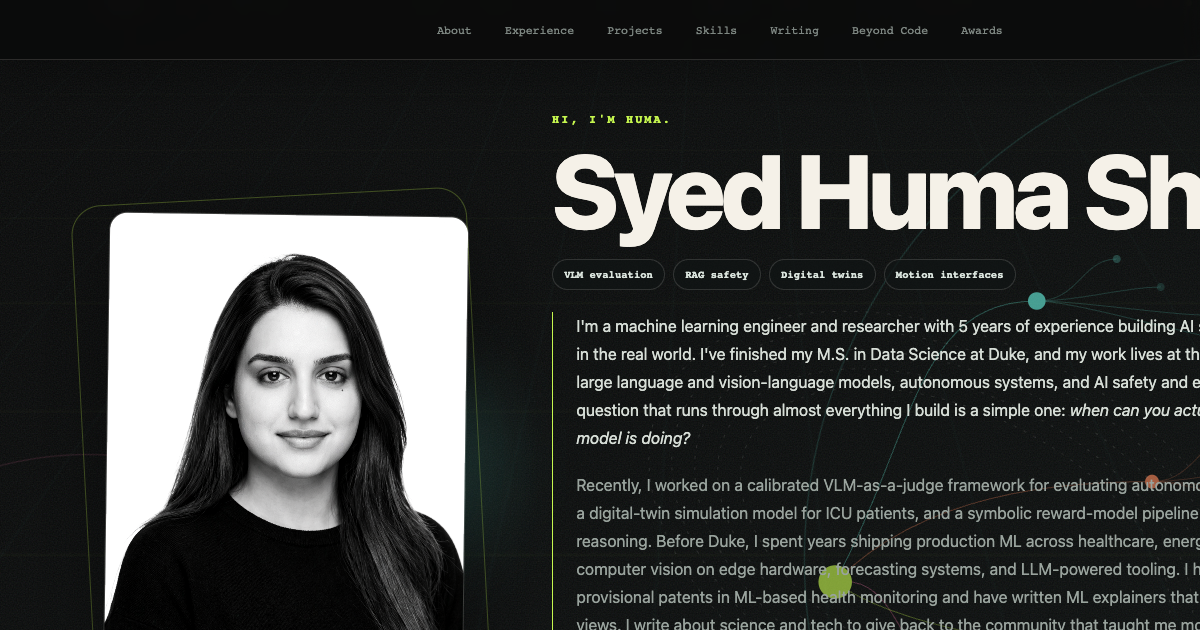
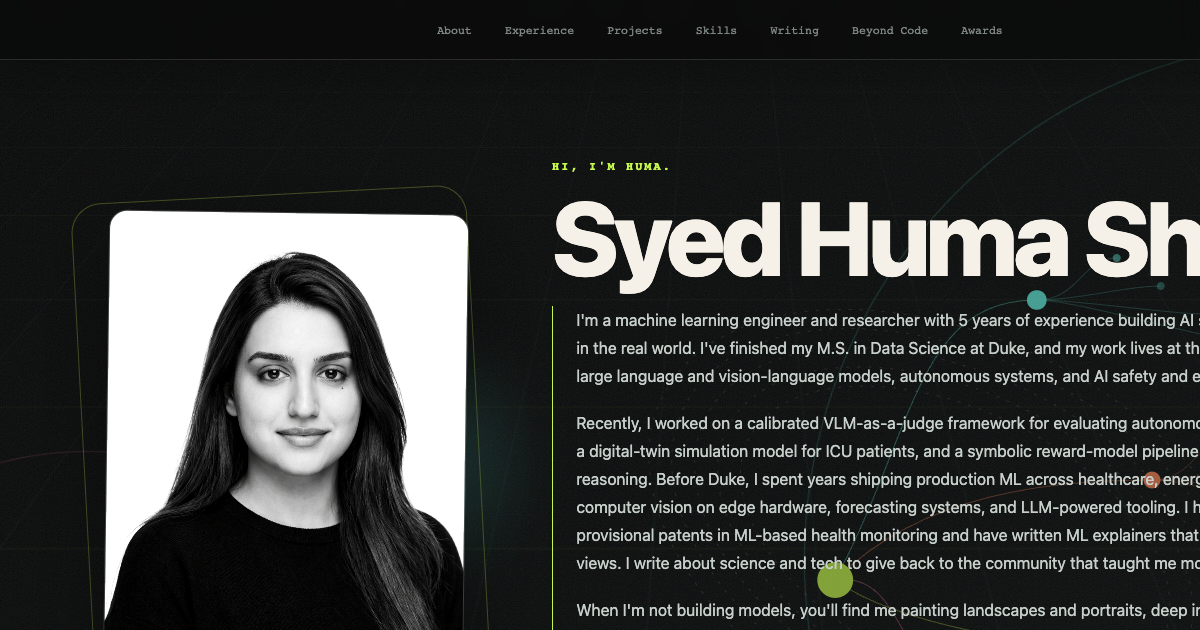
Refine hero links and hobby section

diff --git a/index.html b/index.html
@@ -130,8 +130,7 @@ nav a:hover{color:#111;background:var(--text);border-color:var(--text)}
 .role-line{display:flex;gap:.5rem;flex-wrap:wrap;margin:0 0 1.4rem}
 .role-line span{border:1px solid var(--line);border-radius:999px;background:rgba(16,20,20,.7);padding:.5rem .7rem;color:#dbe5de;font:700 .66rem var(--mono)}
 .bio-panel{border-left:1px solid var(--primary);padding-left:1.45rem}
-.hero-text .bio{color:#d7ded7;font-size:1rem;max-width:760px}
-.hero-text .bio.muted{color:#99a39d}
+.hero-text .bio,.hero-text .bio.muted{color:#c6cfca;font-size:1rem;font-weight:400;max-width:760px}
 .metric-row{display:grid;grid-template-columns:repeat(3,1fr);gap:1px;margin:1.4rem 0;background:var(--line);border:1px solid var(--line)}
 .metric-row span{background:rgba(16,20,20,.86);padding:1rem;font:700 .65rem var(--mono);color:var(--muted)}
 .metric-row b{display:block;color:var(--primary);font-size:1.35rem;margin-bottom:.2rem}
@@ -139,9 +138,24 @@ nav a:hover{color:#111;background:var(--text);border-color:var(--text)}
 .photo-orbit:before{content:"";position:absolute;inset:-18px;border:1px solid rgba(199,248,79,.28);border-radius:30px;transform:rotate(-3deg)}
 .photo-orbit:after{content:"";position:absolute;inset:12% -16% auto auto;width:56%;height:56%;border-radius:50%;background:radial-gradient(circle,rgba(103,242,223,.22),transparent 64%);filter:blur(24px);z-index:-1}
 .hero-photo{width:min(360px,76vw);height:auto;max-height:620px;border-radius:18px;border:1px solid rgba(245,241,232,.18);box-shadow:0 30px 90px rgba(0,0,0,.38);filter:saturate(.94) contrast(1.04);transform:rotate(.8deg)}
-.social-links{gap:.65rem}
-.social-links a,.project-card .links a{border-color:rgba(199,248,79,.35);color:var(--text);background:rgba(16,20,20,.68);font-family:var(--mono);font-size:.76rem}
+.social-links{gap:.8rem;margin-top:1.15rem}
+.social-links a,.project-card .links a{border-color:rgba(199,248,79,.35);color:var(--text);background:rgba(16,20,20,.68);font-family:var(--mono);font-size:.9rem;padding:.8rem 1.25rem}
 .social-links a:hover,.project-card .links a:hover{background:var(--primary);color:#111;border-color:var(--primary);box-shadow:0 12px 34px rgba(199,248,79,.2)}
+.company-bridge{max-width:1240px;margin:0 auto;padding:2.2rem 1.5rem 3.8rem;position:relative}
+.company-bridge.compact{padding-top:1rem;padding-bottom:4rem}
+.company-bridge:before{content:"";display:block;height:1px;margin-bottom:1.2rem;background:linear-gradient(90deg,transparent,rgba(199,248,79,.55),rgba(103,242,223,.36),transparent)}
+.company-bridge p{margin:0 0 1.2rem;color:var(--primary);font:800 .72rem var(--mono);letter-spacing:.16em;text-transform:uppercase}
+.company-track{display:grid;grid-template-columns:repeat(5,1fr);gap:1px;background:var(--line);border:1px solid var(--line);overflow:hidden}
+.company-card{min-height:128px;display:flex;flex-direction:column;align-items:center;justify-content:center;gap:.8rem;background:linear-gradient(145deg,rgba(18,23,23,.92),rgba(9,11,11,.92));color:var(--text);text-align:center;transition:transform .35s ease,background .35s ease}
+.company-card:hover{transform:translateY(-5px);background:#151c1b}
+.company-mark{width:62px;height:62px;display:grid;place-items:center;border-radius:16px;background:#f5f1e8;color:#07100e;font:900 1.05rem var(--mono);box-shadow:0 14px 34px rgba(0,0,0,.22)}
+.company-mark.duke{background:#012169;color:#fff}
+.company-mark.clearquote{background:#e8fbff;color:#102133}
+.company-mark.ion{background:#d8ff71;color:#102000}
+.company-mark.trip{background:#ff946a;color:#180b04}
+.company-mark.geo{background:#101715;color:#c7f84f;border:1px solid rgba(199,248,79,.4)}
+.company-card b{font-size:.92rem}
+.company-card small{color:var(--muted);font:.64rem var(--mono);text-transform:uppercase}
 section{max-width:1240px}
 .section-title{text-align:left;font-size:clamp(2.5rem,5vw,5.8rem);line-height:.88;letter-spacing:-.04em;background:none;-webkit-text-fill-color:var(--text);margin-bottom:3rem}
 .section-title:before{content:"";display:block;width:64px;height:2px;background:linear-gradient(90deg,var(--primary),transparent);margin-bottom:1rem}
@@ -161,15 +175,22 @@ section{max-width:1240px}
 .project-card .tech span,.skill-tag{background:rgba(103,242,223,.08);border:1px solid rgba(103,242,223,.18);color:#aef7ef;font-family:var(--mono)}
 .skills-grid{justify-content:flex-start}
 .skill-tag:hover{background:var(--secondary);color:#08100f}
-.hobbies-grid{grid-template-columns:repeat(auto-fit,minmax(245px,1fr));gap:1px;background:var(--line);border:1px solid var(--line)}
-.hobby-card .emoji{filter:saturate(.85)}
+.hobby-lab{position:relative;overflow:hidden}
+.hobby-lab:before{content:"";position:absolute;right:4%;top:9rem;width:280px;height:280px;border:1px dashed rgba(103,242,223,.24);border-radius:50%;animation:orbit 24s linear infinite}
+.hobby-lab:after{content:"";position:absolute;right:10%;top:14rem;width:90px;height:90px;border-radius:50%;background:radial-gradient(circle,rgba(199,248,79,.2),transparent 66%);filter:blur(10px);animation:pulseHobby 5s ease-in-out infinite alternate}
+.hobbies-grid{position:relative;z-index:1;grid-template-columns:repeat(3,minmax(0,1fr));gap:14px;background:transparent;border:0}
+.hobby-card{border:1px solid var(--line);border-radius:18px;min-height:270px;display:flex;flex-direction:column;align-items:center;justify-content:center;position:relative;overflow:hidden}
+.hobby-card:before{content:"";position:absolute;inset:auto -30% -45% 35%;height:150px;background:radial-gradient(circle,rgba(103,242,223,.16),transparent 68%);transition:transform .35s ease,opacity .35s ease;opacity:.45}
+.hobby-card:hover:before{transform:translateY(-22px);opacity:1}
+.hobby-card .emoji{filter:saturate(.85);font-size:2.85rem}
+@keyframes pulseHobby{from{transform:scale(.9);opacity:.55}to{transform:scale(1.15);opacity:1}}
 .awards-list{background:var(--line);border:1px solid var(--line);gap:1px}
 .awards-list li{border-left:0}
 .awards-list li strong{color:var(--primary)}
 footer{border-top:1px solid var(--line);background:rgba(8,9,9,.7)}
 .fade-in{transform:translateY(18px);transition:opacity .7s ease,transform .7s ease}
-@media(max-width:900px){.hero-inner{grid-template-columns:1fr;text-align:left}.photo-orbit{order:2}.hero h1{font-size:clamp(3.1rem,12vw,5.4rem)}.bio-panel{padding-left:1rem}.metric-row{grid-template-columns:1fr}.section-title{text-align:left}}
-@media(max-width:640px){nav ul{justify-content:flex-start}.hero{padding:6.4rem 1.15rem 3rem}.hero h1{font-size:clamp(2.8rem,11vw,3.5rem)}.projects-grid{grid-template-columns:1fr}.hero-text .bio{font-size:.94rem}.role-line span{font-size:.58rem}.social-links a{flex:1;justify-content:center}.hero:before{width:130vw;height:130vw;right:-80vw}.hero:after{width:92vw;height:92vw}.section-title{font-size:3rem}}
+@media(max-width:900px){.hero-inner{grid-template-columns:1fr;text-align:left}.photo-orbit{order:2}.hero h1{font-size:clamp(3.1rem,12vw,5.4rem)}.bio-panel{padding-left:1rem}.metric-row{grid-template-columns:1fr}.section-title{text-align:left}.company-track{grid-template-columns:repeat(2,1fr)}.hobbies-grid{grid-template-columns:repeat(2,minmax(0,1fr))}}
+@media(max-width:640px){nav ul{justify-content:flex-start}.hero{padding:6.4rem 1.15rem 3rem}.hero h1{font-size:clamp(2.8rem,11vw,3.5rem)}.projects-grid{grid-template-columns:1fr}.hero-text .bio{font-size:.94rem}.social-links a{flex:1;justify-content:center}.hero:before{width:130vw;height:130vw;right:-80vw}.hero:after{width:92vw;height:92vw}.section-title{font-size:3rem}.company-track,.hobbies-grid{grid-template-columns:1fr}.company-card{min-height:112px}}
 @media(prefers-reduced-motion:reduce){*,*:before,*:after{animation-duration:.001ms!important;animation-iteration-count:1!important;transition-duration:.001ms!important;scroll-behavior:auto!important}}
 </style>
 </head>
@@ -197,9 +218,8 @@ footer{border-top:1px solid var(--line);background:rgba(8,9,9,.7)}
 <div class="hero-text">
 <p class="greeting">Hi, I'm Huma.</p>
 <h1>Syed Huma Shah</h1>
-<div class="role-line"><span>VLM evaluation</span><span>RAG safety</span><span>Digital twins</span><span>Motion interfaces</span></div>
 <div class="bio-panel">
-<p class="bio">I'm a machine learning engineer and researcher with 5 years of experience building AI systems that work in the real world. I've finished my M.S. in Data Science at Duke, and my work lives at the intersection of large language and vision-language models, autonomous systems, and AI safety and evaluation. The question that runs through almost everything I build is a simple one: <em>when can you actually trust what a model is doing?</em></p>
+<p class="bio">I'm a machine learning engineer and researcher with 5 years of experience building AI systems that work in the real world. I've finished my M.S. in Data Science at Duke, and my work lives at the intersection of large language and vision-language models, autonomous systems, and AI safety and evaluation.</p>
 <p class="bio muted">Recently, I worked on a calibrated VLM-as-a-judge framework for evaluating autonomous-driving video, a digital-twin simulation model for ICU patients, and a symbolic reward-model pipeline for verifiable reasoning. Before Duke, I spent years shipping production ML across healthcare, energy, and mobility, computer vision on edge hardware, forecasting systems, and LLM-powered tooling. I hold two provisional patents in ML-based health monitoring and have written ML explainers that have passed 102k views. I write about science and tech to give back to the community that taught me most of what I know.</p>
 <p class="bio muted">When I'm not building models, you'll find me painting landscapes and portraits, deep in a Formula 1 race, or cooking something in the kitchen. I especially love Kashmiri, Italian, Thai, and Mughlai cuisine, along with dishes from Yemeni, Jordanian, and Persian cuisines.</p>
 <p class="funfact">Fun fact: I can solve a sudoku puzzle in under 2 minutes &#9201;&#65039;</p>
@@ -210,7 +230,7 @@ footer{border-top:1px solid var(--line);background:rgba(8,9,9,.7)}
 <span><b>102k</b> ML readers</span>
 </div>
 <div class="social-links">
-<a href="https://www.linkedin.com/in/syedhumashah" target="_blank">LinkedIn</a>
+<a href="https://www.linkedin.com/in/syedhumarahim/" target="_blank">LinkedIn</a>
 <a href="https://github.com/syedhumarahim" target="_blank">GitHub</a>
 <a href="https://medium.com/@shummashah" target="_blank">Medium</a>
 <a href="https://towardsdatascience.com/author/shummashah/" target="_blank">Towards Data Science</a>
@@ -219,6 +239,17 @@ footer{border-top:1px solid var(--line);background:rgba(8,9,9,.7)}
 </div>
 </div>
 </header>
+
+<div class="company-bridge" aria-label="Experience transition">
+<p>From research prototypes to production systems</p>
+<div class="company-track">
+<a class="company-card" href="https://duke.edu" target="_blank" rel="noreferrer"><span class="company-mark duke">D</span><b>Duke University</b><small>Research</small></a>
+<a class="company-card" href="https://clearquote.io" target="_blank" rel="noreferrer"><span class="company-mark clearquote">CQ</span><b>Clearquote</b><small>Computer vision</small></a>
+<a class="company-card" href="https://ionenergy.co" target="_blank" rel="noreferrer"><span class="company-mark ion">ION</span><b>ION Energy</b><small>EV intelligence</small></a>
+<a class="company-card" href="https://tripai.com" target="_blank" rel="noreferrer"><span class="company-mark trip">TAI</span><b>TripAI</b><small>Optimization</small></a>
+<span class="company-card"><span class="company-mark geo">G</span><b>Geotech Consultants</b><small>Energy modeling</small></span>
+</div>
+</div>
 
 <section id="experience">
 <h2 class="section-title fade-in">Experience</h2>
@@ -525,6 +556,17 @@ footer{border-top:1px solid var(--line);background:rgba(8,9,9,.7)}
 </div>
 </div>
 </section>
+
+<div class="company-bridge compact" aria-label="Career logos">
+<p>Built across research, healthcare, energy, mobility, and ML infrastructure</p>
+<div class="company-track">
+<a class="company-card" href="https://duke.edu" target="_blank" rel="noreferrer"><span class="company-mark duke">D</span><b>Duke University</b><small>Research</small></a>
+<a class="company-card" href="https://clearquote.io" target="_blank" rel="noreferrer"><span class="company-mark clearquote">CQ</span><b>Clearquote</b><small>Production CV</small></a>
+<a class="company-card" href="https://ionenergy.co" target="_blank" rel="noreferrer"><span class="company-mark ion">ION</span><b>ION Energy</b><small>Battery AI</small></a>
+<a class="company-card" href="https://tripai.com" target="_blank" rel="noreferrer"><span class="company-mark trip">TAI</span><b>TripAI</b><small>Pricing ML</small></a>
+<span class="company-card"><span class="company-mark geo">G</span><b>Geotech Consultants</b><small>Forecasting</small></span>
+</div>
+</div>
 
 <footer>
 <p>Syed Huma Shah &middot; North Carolina, USA &middot; <a href="mailto:shummashah@gmail.com">shummashah@gmail.com</a></p>
